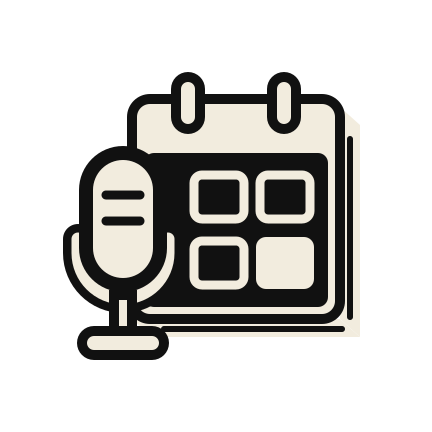
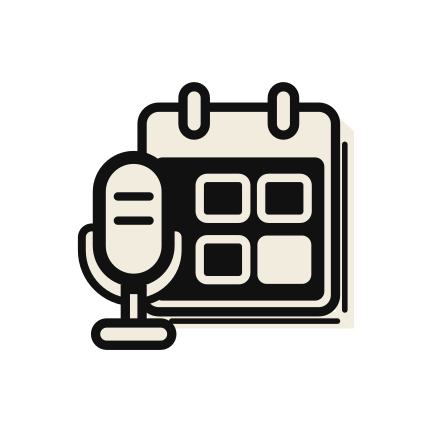
F9-FR2: keep the enlarged mark inside the visible tile
The launcher and the home logo show the icon's centre 72 dp (288 px),
which clipped the mic and the binder rings of the enlarged mark. Fit it
at 93% and centre it, an ink box of 276 x 268 px with a thin margin.

Changed region(s): [[0.1204, 0.1505, 0.8426, 0.8426]]

diff --git a/scripts/icon/gen.py b/scripts/icon/gen.py
@@ -5,10 +5,10 @@
 
 The mark: a desk calendar block with depth and a studio mic in front of it, in inkread's Inkwell
 language: a few bold ink shapes, details cut in paper, separations in the background colour. It is
-drawn on a 432 x 432 canvas, and FIT centres its ink box (about 290 x 280 px) on the canvas. The
-Supernote's app list shows the adaptive icon as a 70 px square tile with no circular mask, cropping
-the canvas to about its centre 307 px, so the mark fills the tile the way Kindle's picture fills its
-own. Like inkread's, the corners of the ink box reach past the 66 dp safe circle.
+drawn on a 432 x 432 canvas, and FIT centres it at 93%, an ink box of about 276 x 268 px. The
+Supernote's app list and the home-screen logo show the adaptive icon's centre 72 dp (288 px) as a
+square tile with no circular mask, so the mark fills the tile, as Kindle's picture fills its own,
+with a thin margin. Like inkread's, the corners of the ink box reach past the 66 dp safe circle.
 
 Outputs:
   meetings-fg-light.svg  launcher foreground (transparent) and the README's light icon
@@ -20,9 +20,9 @@ Outputs:
 import os
 
 BG = "#F2ECDE"  # = res/values/ic_launcher_background.xml, as inkread
-FIT = "translate(4 3)"
-# The legacy icons rescale the fitted mark (ink box about 290 px wide) to inkread's measured
-# proportions: 72% of the width on the square (x 1.07), 66% inside the circle (x 0.98).
+FIT = "translate(216 216) scale(0.93) translate(-207.5 -213)"
+# The legacy icons rescale the fitted mark (ink box about 276 px wide) to inkread's measured
+# proportions: 72% of the width on the square (x 1.127), 66% inside the circle (x 1.03).
 def legacy_scale(k):
     return f"translate(216 216) scale({k}) translate(-216 -216)"
 
@@ -80,5 +80,5 @@ def write(name, text):
 
 write("meetings-fg-light.svg", fg(BG, "#111111", "#FFFFFF"))   # launcher + README light
 write("meetings-fg-dark.svg", fg("#111111", BG, "#111111"))    # README dark mode
-write("legacy-square.svg", legacy(f'<rect width="432" height="432" rx="86" fill="{BG}"/>', 1.07))
-write("legacy-round.svg", legacy(f'<circle cx="216" cy="216" r="216" fill="{BG}"/>', 0.98))
+write("legacy-square.svg", legacy(f'<rect width="432" height="432" rx="86" fill="{BG}"/>', 1.127))
+write("legacy-round.svg", legacy(f'<circle cx="216" cy="216" r="216" fill="{BG}"/>', 1.03))
